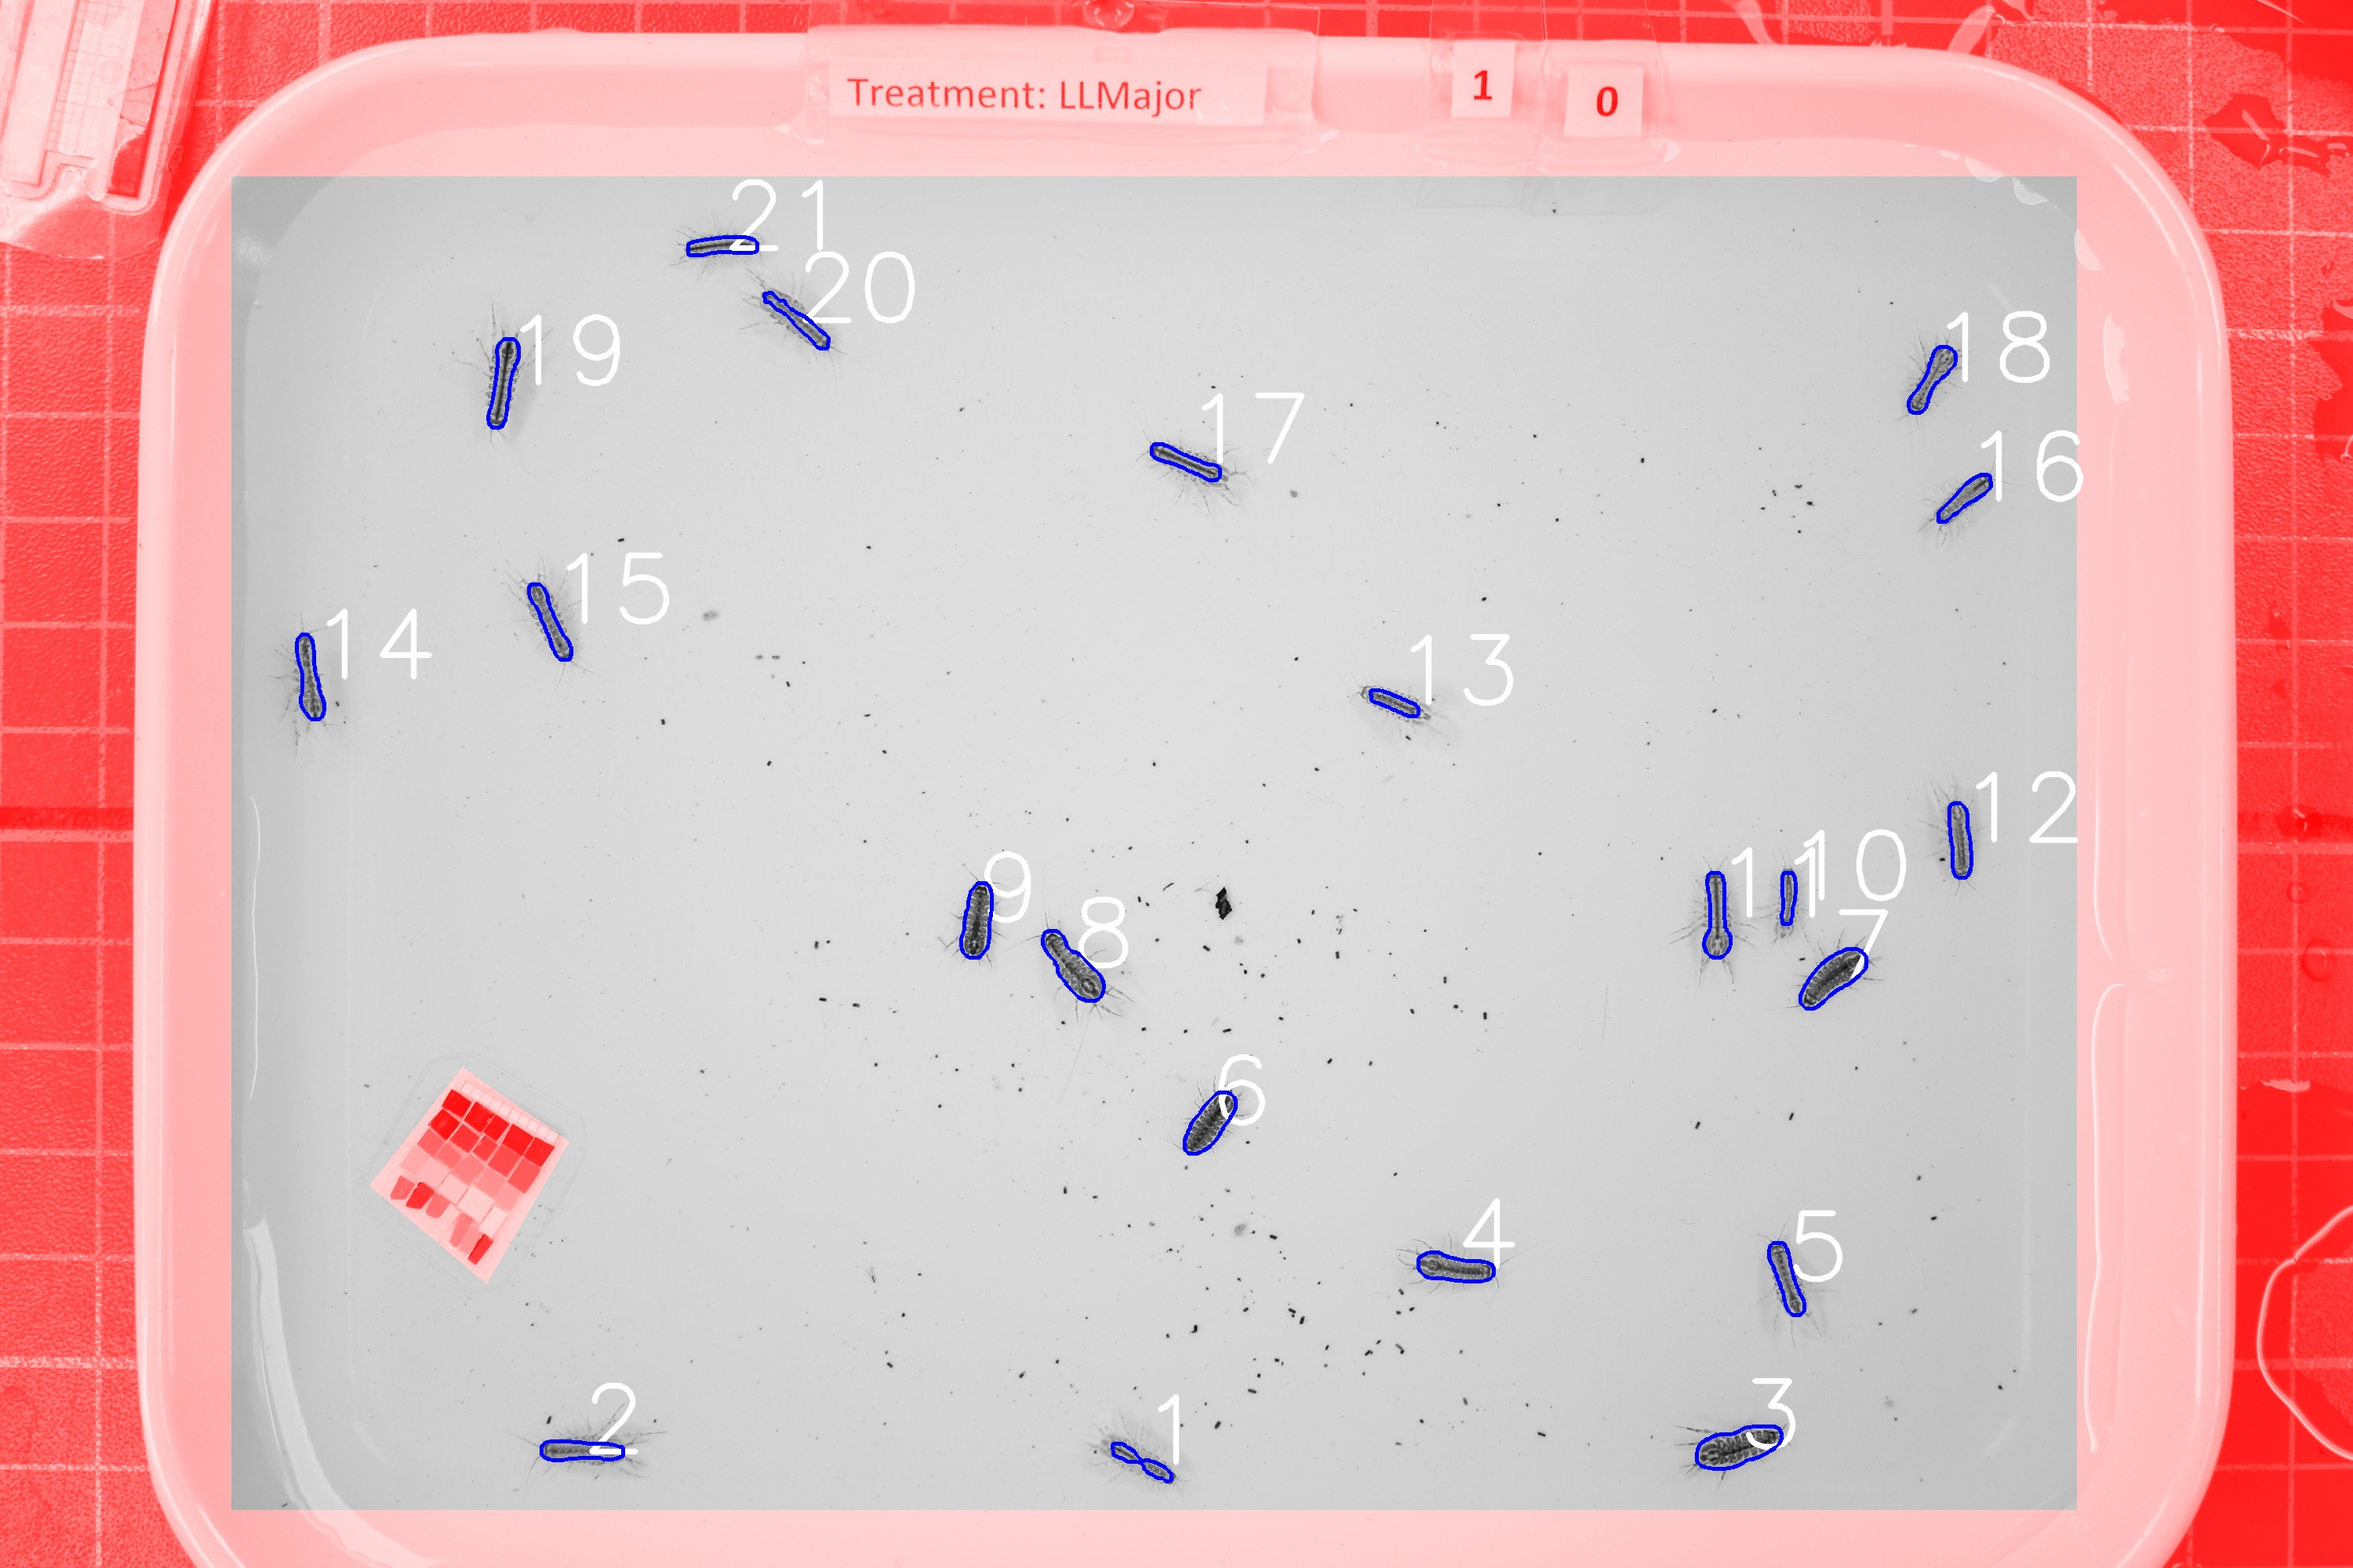
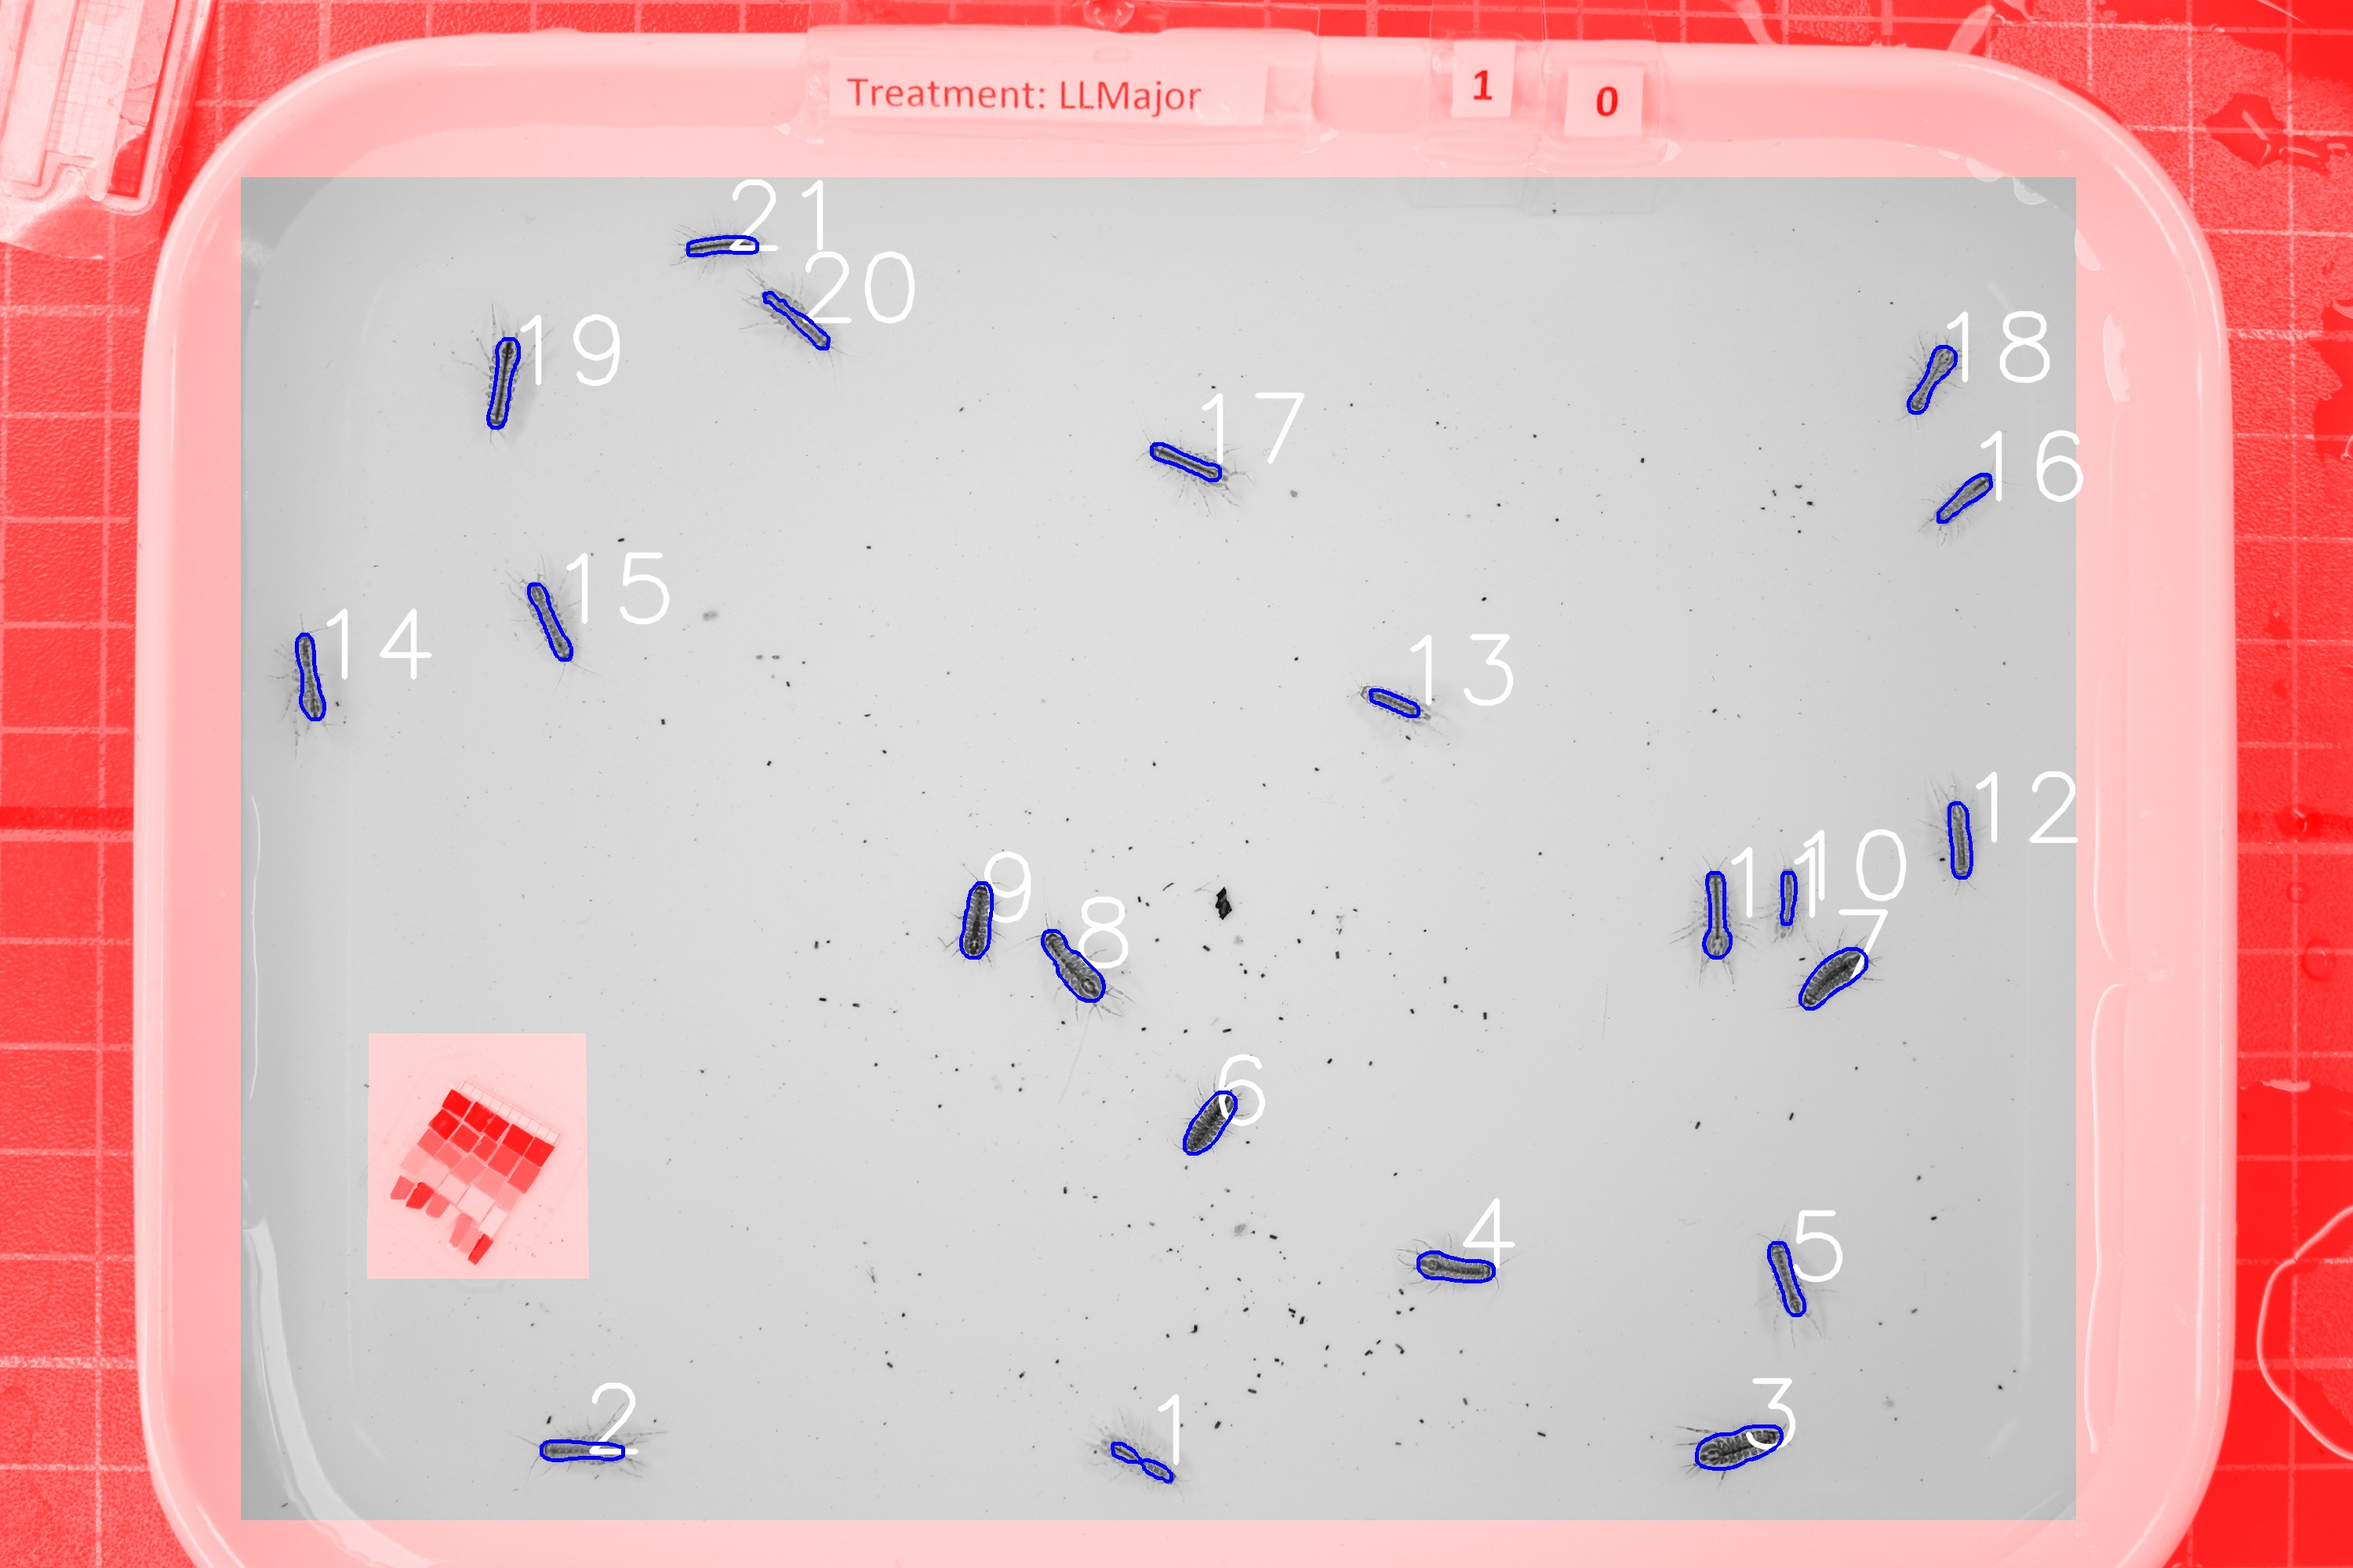
switch scale detector (AKAZE)

Changed region(s): [[0.093, 0.124, 0.868, 0.992], [0.155, 0.651, 0.248, 0.837]]

diff --git a/phenopype/base.py b/phenopype/base.py
@@ -351,7 +351,7 @@ class scale_maker:
         image = cv2.resize(copy.deepcopy(self.image_current), (0,0), fx=1*factor, fy=1*factor) 
         if not len(image.shape)==3:
             image = cv2.cvtColor(image, cv2.COLOR_GRAY2BGR)
-        min_matches = kwargs.get('min_keypoints', 10)
+        min_matches = kwargs.get('min_matches', 10)
         show = kwargs.get('show', False)
         img1 = self.image
         img2 = copy.deepcopy(image)
@@ -359,20 +359,47 @@ class scale_maker:
         # =============================================================================
         # SIFT detector
         # =============================================================================
-        sift = cv2.xfeatures2d.SIFT_create()
+        # sift = cv2.xfeatures2d.SIFT_create()
+        # kp1, des1 = sift.detectAndCompute(img1,self.mask_det)
+        # kp2, des2 = sift.detectAndCompute(img2,None)
+        
+        
+        # =============================================================================
+        # ORB detector
+        # =============================================================================
+#        orb = cv2.ORB_create()
+#        kp1, des1 = orb.detectAndCompute(img1,self.mask_det)
+#        kp2, des2 = orb.detectAndCompute(img2,None)
+#        des1 = np.asarray(des1, np.float32)
+#        des2 = np.asarray(des2, np.float32)
+        
+#        FLANN_INDEX_KDTREE = 0
+#        index_params = dict(algorithm = FLANN_INDEX_KDTREE, trees = 5)
+#        search_params = dict(checks = 50)
+#        flann = cv2.FlannBasedMatcher(index_params, search_params)
+#        matches = flann.knnMatch(des1,des2,k=2)
+        
+        # =============================================================================
+        # AKAZE detector
+        # =============================================================================
+        
+        akaze = cv2.AKAZE_create()
+        kp1, des1 = akaze.detectAndCompute(img1,self.mask_det)
+        kp2, des2 = akaze.detectAndCompute(img2,None)
+        matcher = cv2.DescriptorMatcher_create(cv2.DescriptorMatcher_BRUTEFORCE_HAMMING)
 
-        kp1, des1 = sift.detectAndCompute(img1,self.mask_det)
-        kp2, des2 = sift.detectAndCompute(img2,None)
-        FLANN_INDEX_KDTREE = 0
-        index_params = dict(algorithm = FLANN_INDEX_KDTREE, trees = 5)
-        search_params = dict(checks = 50)
-        flann = cv2.FlannBasedMatcher(index_params, search_params)
-        matches = flann.knnMatch(des1,des2,k=2)
+        matcher = cv2.DescriptorMatcher_create(cv2.DescriptorMatcher_BRUTEFORCE_HAMMING)
+        matches = matcher.knnMatch(des1, des2, 2)
+
+        # keep only good matches
         good = []
         for m,n in matches:
             if m.distance < 0.7*n.distance:
                 good.append(m)
-        if len(good)>min_matches:
+       
+        self.nkp = len(good)
+        # find and transpose coordinates of matches
+        if self.nkp>=min_matches:
             src_pts = np.float32([ kp1[m.queryIdx].pt for m in good ]).reshape(-1,1,2)
             dst_pts = np.float32([ kp2[m.trainIdx].pt for m in good ]).reshape(-1,1,2)
             M, mask = cv2.findHomography(src_pts, dst_pts, cv2.RANSAC,5.0)
@@ -384,6 +411,7 @@ class scale_maker:
             # =============================================================================
             # compare scale to original, and return adjusted ratios
             # =============================================================================
+            
             if show == True:
                 cv2.namedWindow("window", flags=cv2.WINDOW_NORMAL)
                 cv2.imshow("window", img2)
@@ -394,11 +422,24 @@ class scale_maker:
             self.current = round(self.measured * ((radius * 2)/self.ref),1)
             zeros = np.zeros(self.image_current.shape[0:2], np.uint8)
             self.mask = cv2.fillPoly(zeros, [np.array(rect, dtype=np.int32)], white)
+            
+            print("\n")
+            print("----------------------------------------------------------------")
+            print("Scale found with %d keypoint matches" % self.nkp)
+            print("----------------------------------------------------------------")
+            print("\n")
 
-            return self.current, self.mask
-
+            return self.current, self.mask      
+        
         else:
-            print("Scale not found - Only %d/%d matches" % (len(good),min_matches))
+            print("\n")
+            print("----------------------------------------------------------------")
+            print("Scale not found - only %d/%d keypoint matches" % (self.nkp, min_matches))
+            print("----------------------------------------------------------------")
+            print("\n")
+            
+            return "no current scale", "no scale mask"
+
         
 
 
@@ -620,6 +661,7 @@ class standard_object_finder:
 
         if self.mode == "multi":
             idx = 0
+            idx_noise = 0
             length_idx = 0
             area_idx = 0
             df_list = []
@@ -668,7 +710,8 @@ class standard_object_finder:
                             q=kwargs.get("roi_size",300)/2
                             cv2.putText(self.drawn,  str(idx) ,(x,y), cv2.FONT_HERSHEY_SIMPLEX, 4,(255,255,255),5,cv2.LINE_AA)
                             cv2.drawContours(self.drawn, [cnt], 0, blue, 4)
-                     
+                    else:
+                        idx_noise += 1
             else: 
                 print("No objects found - change parameters?")
             
@@ -736,18 +779,26 @@ class standard_object_finder:
         
         # SHOW DF
         if "df" in show:        
-            if not length_idx == 0 or not area_idx ==0:
-                mla = ", %d object(s) not bigger than minimum diameter and %d object(s) not bigger than minimum area" % (length_idx,  area_idx)
-            else:
-                mla = ""
-            
+
             self.df_short = self.df[["idx", "length1", "area1","mean1"]]
             self.df_short.set_index("idx", inplace=True)
             
+            all_pts = len(self.contours)
+            good_pts = len(self.df)
+            
             print(self.df_short) 
-            print("\n----------------------------------------------------------")
-            print("Found " + str(len(self.df)) + " objects in " + self.filename +  mla)
-            print("----------------------------------------------------------")
+            
+            print("\n")
+            print("----------------------------------------------------------------")
+            print("Found " + str(all_pts) + " objects in " + self.filename + ":")
+            print("  ==> %d are valid objects" % good_pts)
+            if not idx_noise == 0:
+                print("    - %d are noise" % idx_noise)
+            if not length_idx == 0:
+                print("    - %d are not bigger than minimum diameter" % length_idx)
+            if not area_idx ==0:
+                print("    - %d are not bigger than minimum area" % area_idx)
+            print("----------------------------------------------------------------")
 
                 
         # SHOW IMAGE

diff --git a/examples/example1/example1.py b/examples/example1/example1.py
@@ -17,7 +17,8 @@ import phenopype as pp
 
 import os
 import cv2
-os.chdir("E:\\python1\\phenopype")cv2
+import numpy as np
+os.chdir("E:\\python1\\phenopype")
 
 import phenopype as pp
 import importlib 
@@ -104,7 +105,7 @@ of.save(image=of.drawn, df=of.df, save_to=proj.save_dir, overwrite=True)
 for p, n in zip(proj.filepaths, proj.filenames):
     
     # if your scale is identical, the scale-finder will find it!
-    #scale.current, scale.mask = scale.find(p)    
+    scale.current, scale.mask = scale.find(p, min_matches=10)    
     
     # if your picture doesn't change dramatically, you can skip this
     arena = pp.polygon_maker()
@@ -118,4 +119,39 @@ for p, n in zip(proj.filepaths, proj.filenames):
     of.save(image=of.drawn, df=of.df, save_to=proj.save_dir, overwrite=True)
     
 
+#%%
+    
+    
+img = proj.filepaths[0]
 
+scale = pp.scale_maker()
+scale.draw(image_path=img, length=10, unit="mm", mode="box")
+
+    
+
+
+
+
+#%% debug
+    
+
+cv2.namedWindow('window' ,cv2.WINDOW_NORMAL)
+cv2.imshow('window',  img2)
+cv2.waitKey(0)
+cv2.destroyAllWindows()
+
+target = cv2.imread(proj.filepaths[1])
+
+    
+    
+orb = cv2.ORB_create()
+kp1, des1 = orb.detectAndCompute(scale.image,scale.mask_det)
+kp2, des2 = orb.detectAndCompute(target,None)
+
+FLANN_INDEX_KDTREE = 0
+index_params = dict(algorithm = FLANN_INDEX_KDTREE, trees = 5)
+search_params = dict(checks = 50)
+flann = cv2.FlannBasedMatcher(index_params, search_params)
+des1 = np.asarray(des1, np.float32)
+des2 = np.asarray(des2, np.float32)
+matches = flann.knnMatch(des1,des2,k=2)
